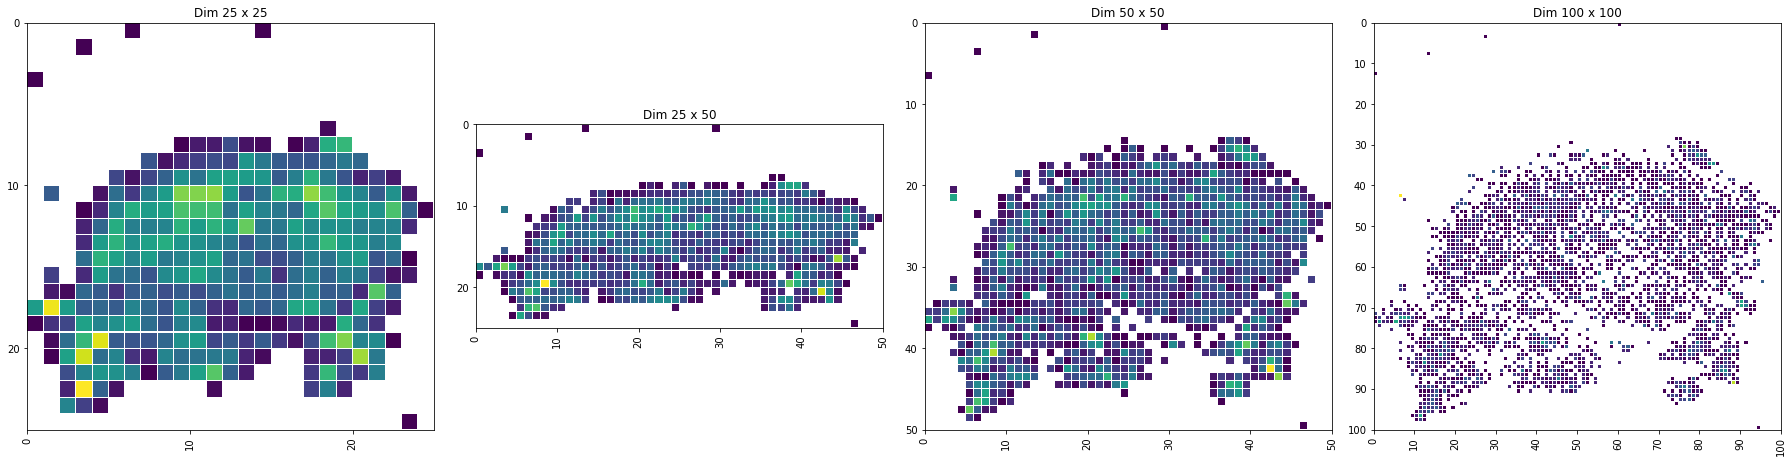
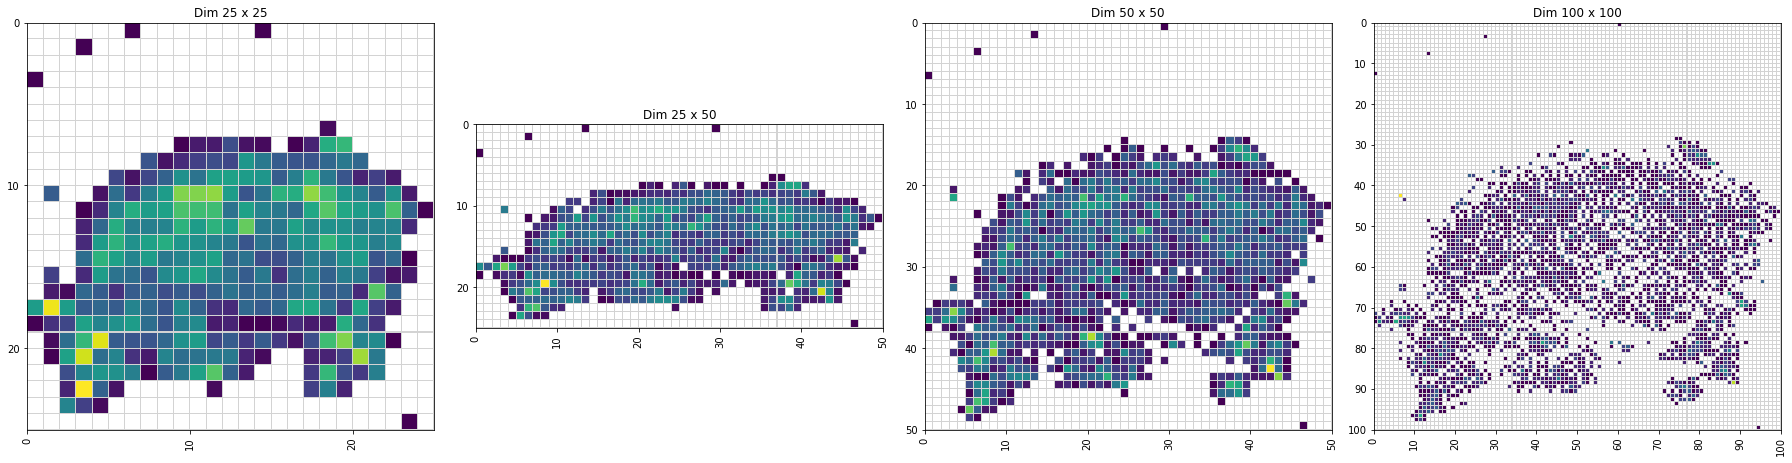
New plots for README

Changed region(s): [[0.0312, 0.0302, 1.0, 0.9374], [0.0312, 0.7862, 0.25, 0.9374], [0.0312, 0.0605, 0.25, 0.121]]

diff --git a/README.md b/README.md
@@ -87,7 +87,9 @@ for ix, px in enumerate(px_sizes):
     it.pixels = px
     fdm = it.feature_density_matrix()
     fdm[fdm == 0] = np.nan
-    cax = sns.heatmap(fdm, cmap="viridis", linewidth=0.01, square=True, ax=ax[ix], cbar=False)
+    cax = sns.heatmap(fdm, cmap="viridis", linewidth=0.01, 
+                      linecolor="lightgrey", square=True, 
+                      ax=ax[ix], cbar=False)
     cax.set_title('Dim {} x {}'.format(*it.pixels))
     for _, spine in cax.spines.items():
         spine.set_visible(True)
